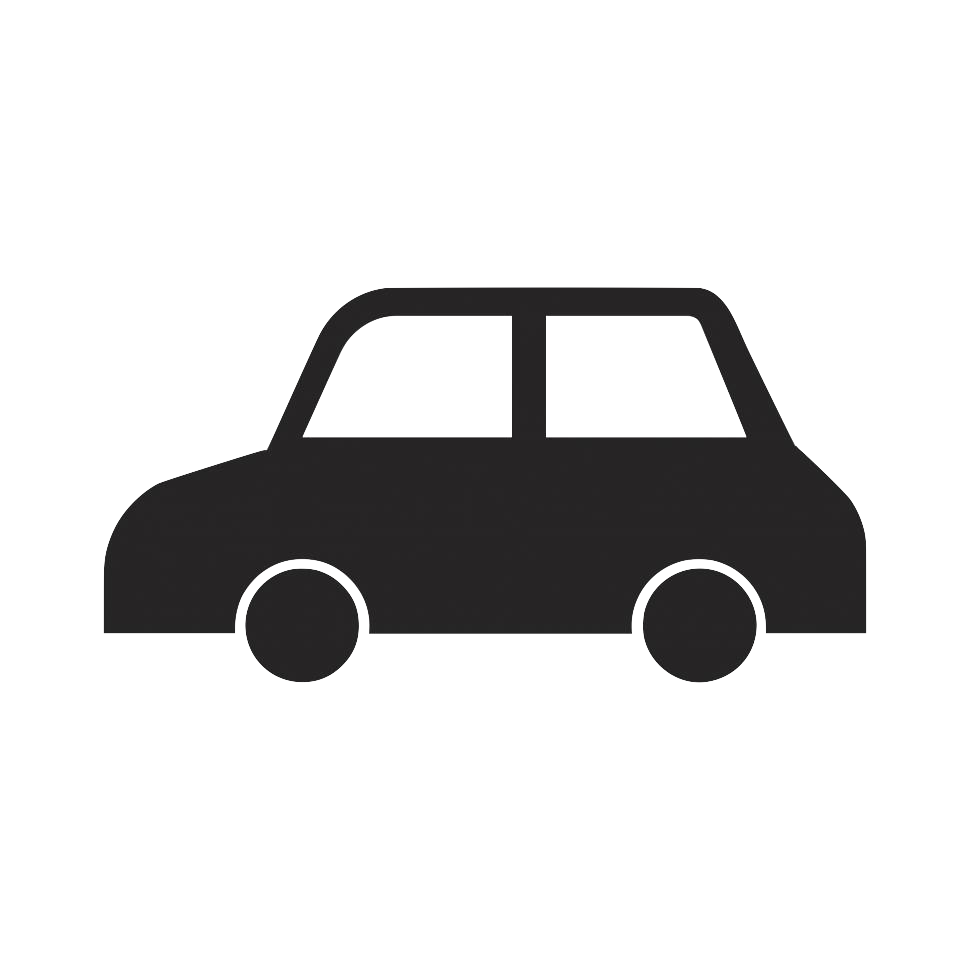
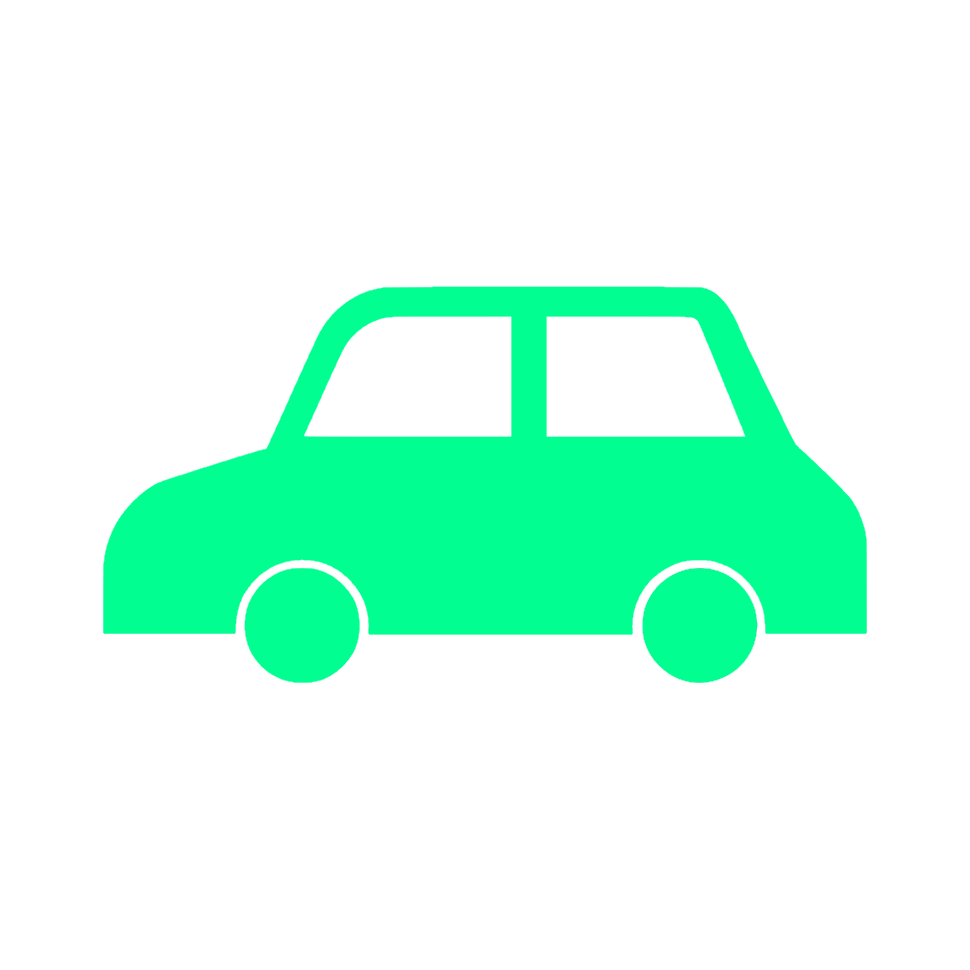
Thêm cái xe vào

Changed region(s): [[0.0928, 0.2784, 0.8969, 0.7113]]

diff --git a/graphics.cpp b/graphics.cpp
@@ -7,5 +7,5 @@ void loadTexture() {
 		std::cout<<"Fail to load";
 	texture.setSmooth(true); //lam diu texture
 	sprite.setTexture(texture); //tao sprite
-	sprite.setColor(sf::Color(0, 255, 0));
+	//sprite.setColor(sf::Color(0, 255, 0));
 }
